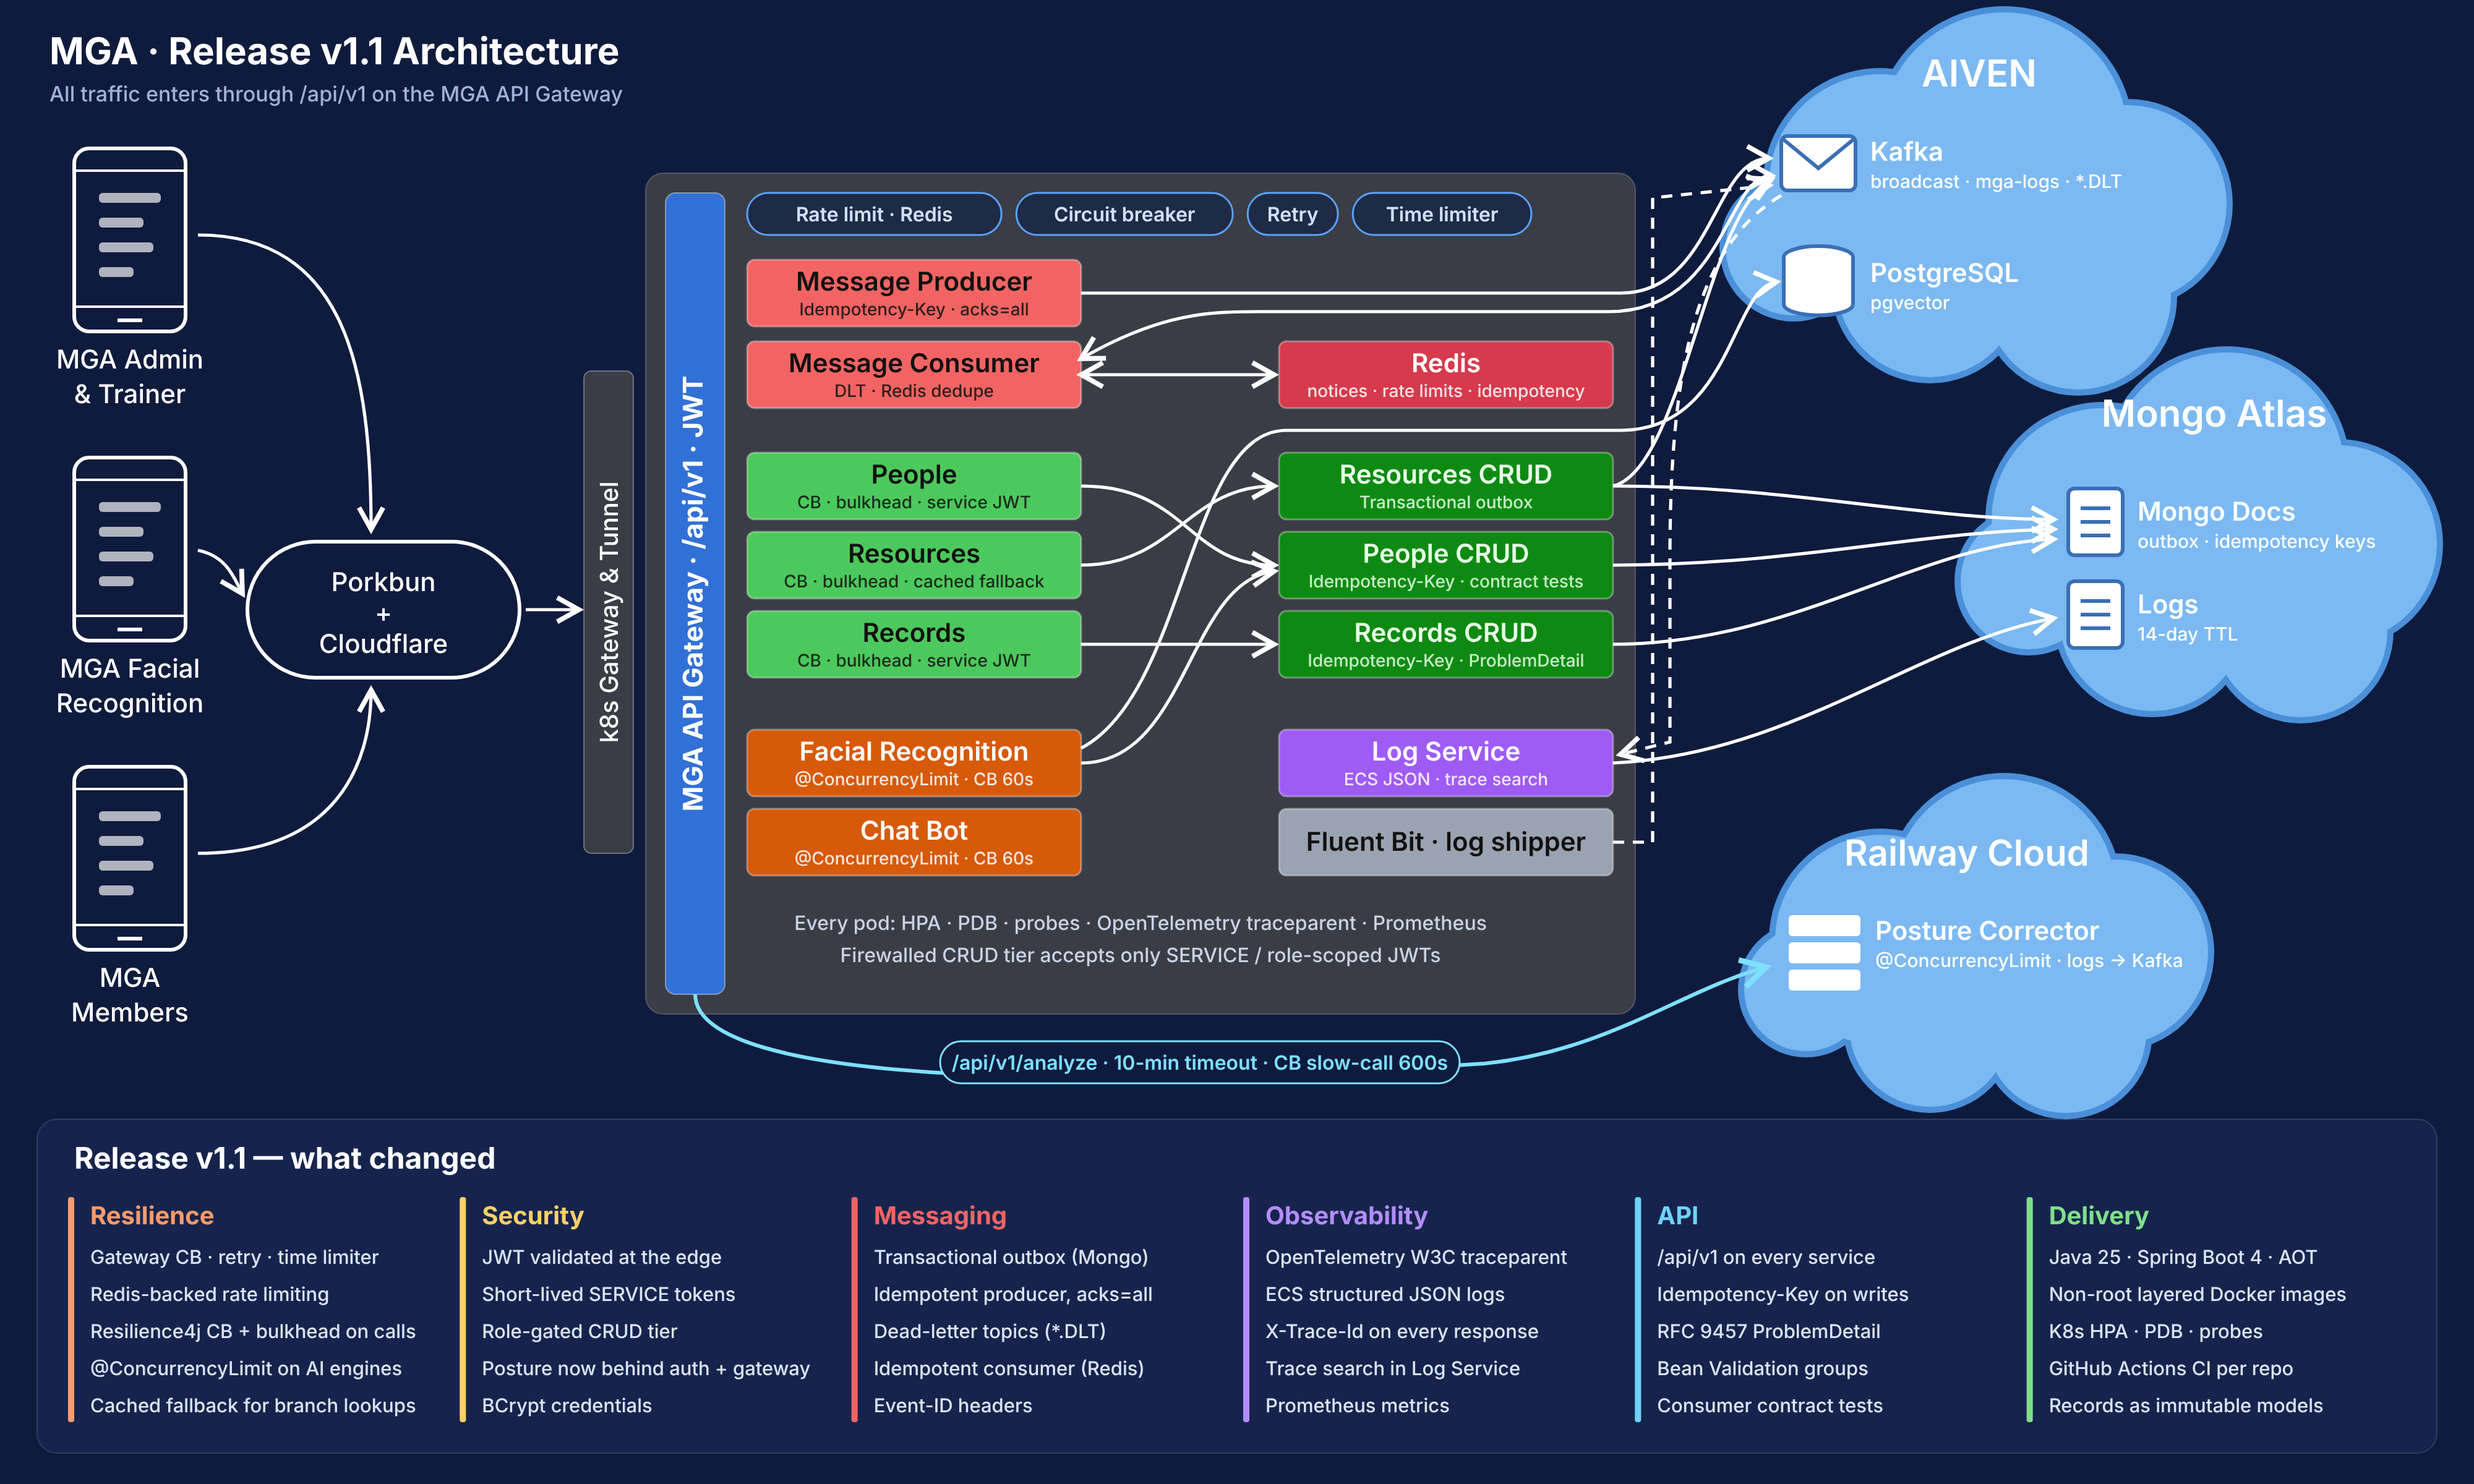
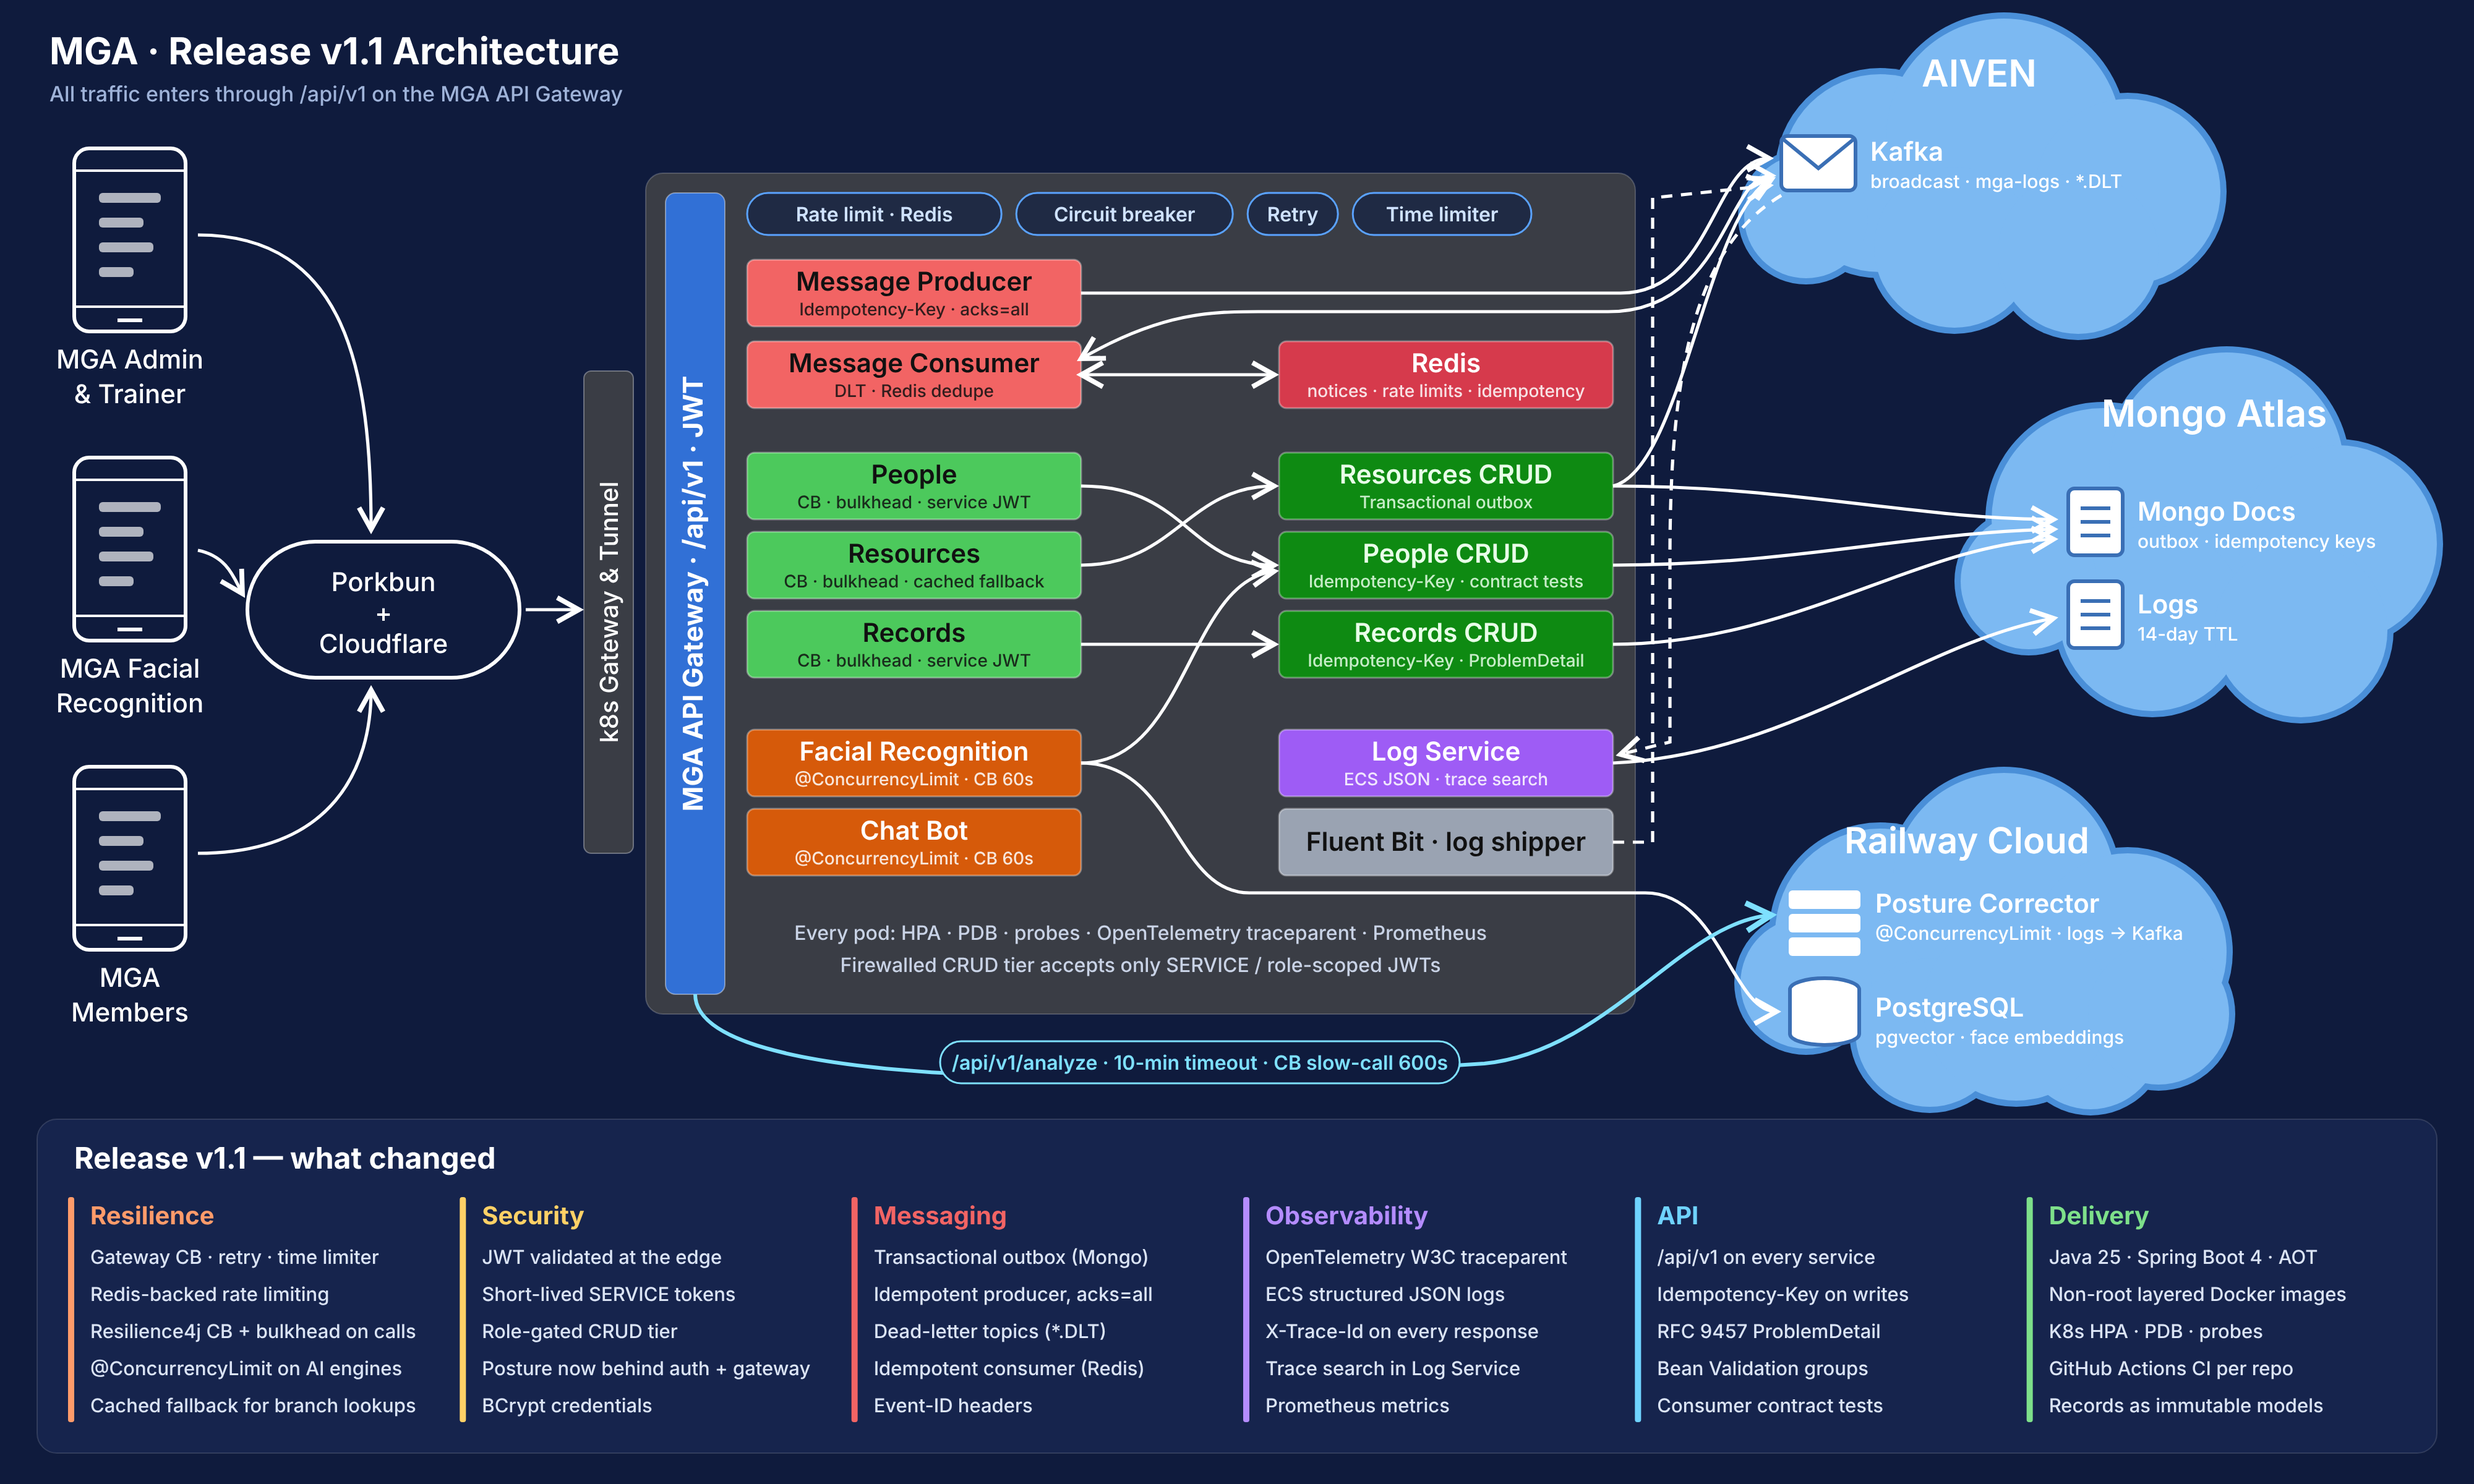
Show Facial Recognition using People CRUD and pgvector on Railway
Claude-Session: https://claude.ai/code/session_01RAXYe36ftkmBFb8k67WeRn

diff --git a/index.html b/index.html
@@ -243,7 +243,7 @@
             <!-- Architecture Diagram Container -->
             <div class="ai-card rounded-2xl p-4 sm:p-6 border border-cyan-900/50 flex flex-col items-center justify-center min-h-[380px] text-center relative overflow-hidden">
                 <img 
-                    src="./assets/architecture-diagram.png?v=1.2" 
+                    src="./assets/architecture-diagram.png?v=1.3" 
                     alt="MGA System Architecture Diagram" 
                     class="w-full h-auto max-h-[650px] object-contain rounded-xl shadow-2xl transition-all hover:scale-[1.01]"
                     onerror="this.onerror=null; this.classList.add('hidden'); document.getElementById('diagram-fallback').classList.remove('hidden');"
